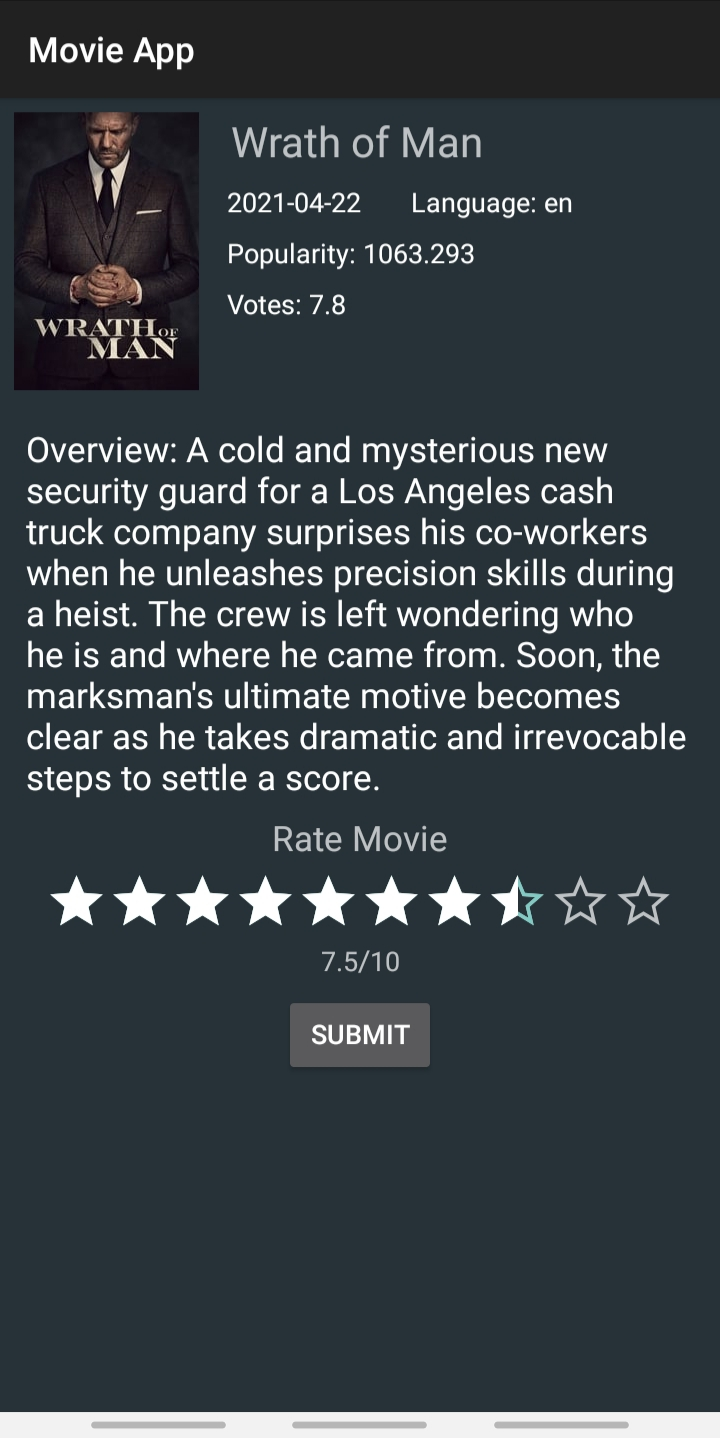
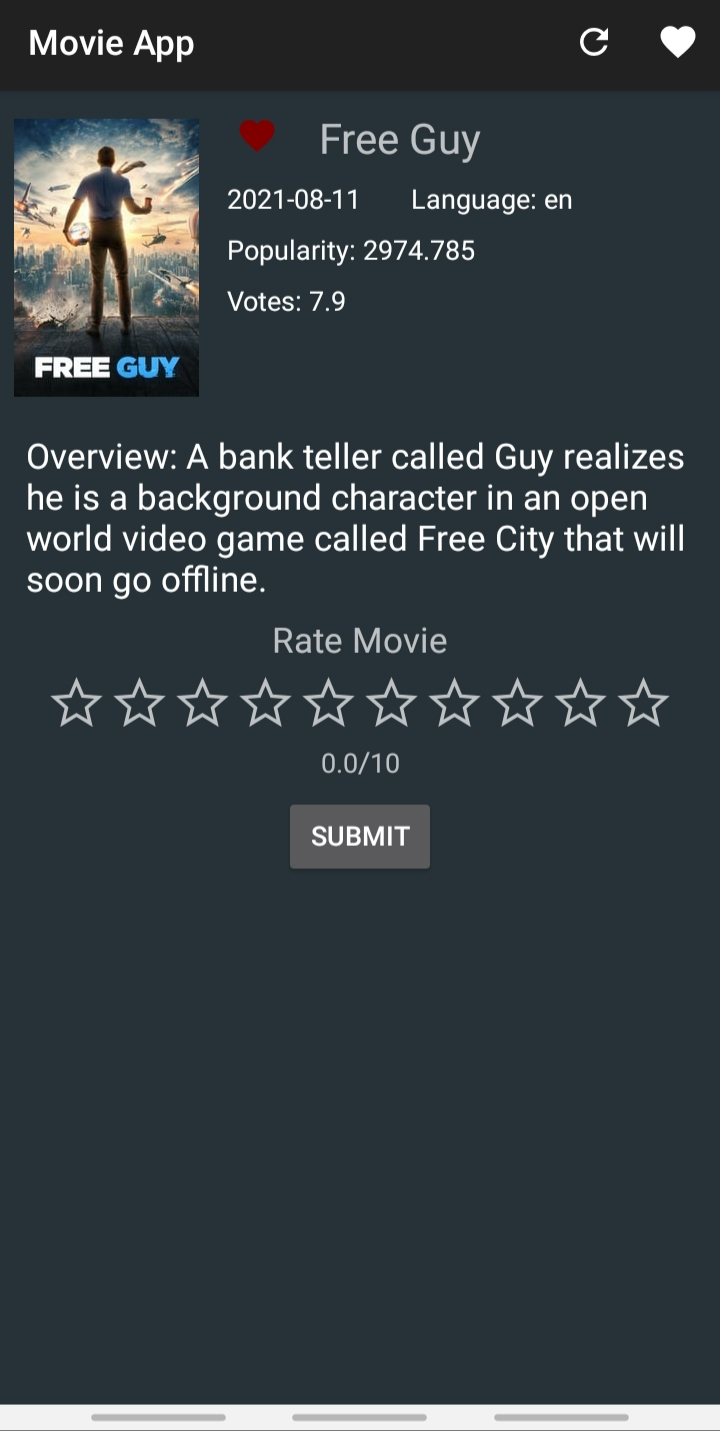
screenshots added

diff --git a/README.MD b/README.MD
@@ -6,6 +6,7 @@ Simple movie app written in Kotlin and using MVVM architecture that consults the
 <img src="https://github.com/micaelagimenez/KotlinMovieApp/blob/main/screenshots/RecyclerView.jpg" width="250" height="450">
 <img src="https://github.com/micaelagimenez/KotlinMovieApp/blob/main/screenshots/Detail.jpg" width="250" height="450">
 <img src="https://github.com/micaelagimenez/KotlinMovieApp/blob/main/screenshots/Search.jpg" width="250" height="450">
+<img src="https://github.com/micaelagimenez/KotlinMovieApp/blob/main/screenshots/Favorites.jpg" width="250" height="450">
 </p>
 
 ## Structure
@@ -17,6 +18,8 @@ Search bar that allows to filter movies according to the their titles. If movie'
 Fragment that shows the clicked movie on main activity's details.
 ### Rating a movie
 Movies can be rated in the movie's detail's fragment from 1 to 10 stars. The post request with the rating is sent to TMDB. The request is possible through a guest session the user initiates when the app is opened for the first time.
+### Favorite movies
+Fragment that shows the user's favorite movies that are kept in a room database.
 
  ## Libraries Used
  <ul>
@@ -27,4 +30,5 @@ Movies can be rated in the movie's detail's fragment from 1 to 10 stars. The pos
  <li> <a href="http://square.github.io/picasso/">Picasso</a> </li>
  <li> <a href="http://square.github.io/okhttp/">OkHttp3</a> </li>
  <li> <a href="https://github.com/zhanghai/MaterialRatingBar">MaterialRatingBar</a> </li>
+  <li> <a href="https://developer.android.com/training/data-storage/room">Room</a> </li>
  </ul>
